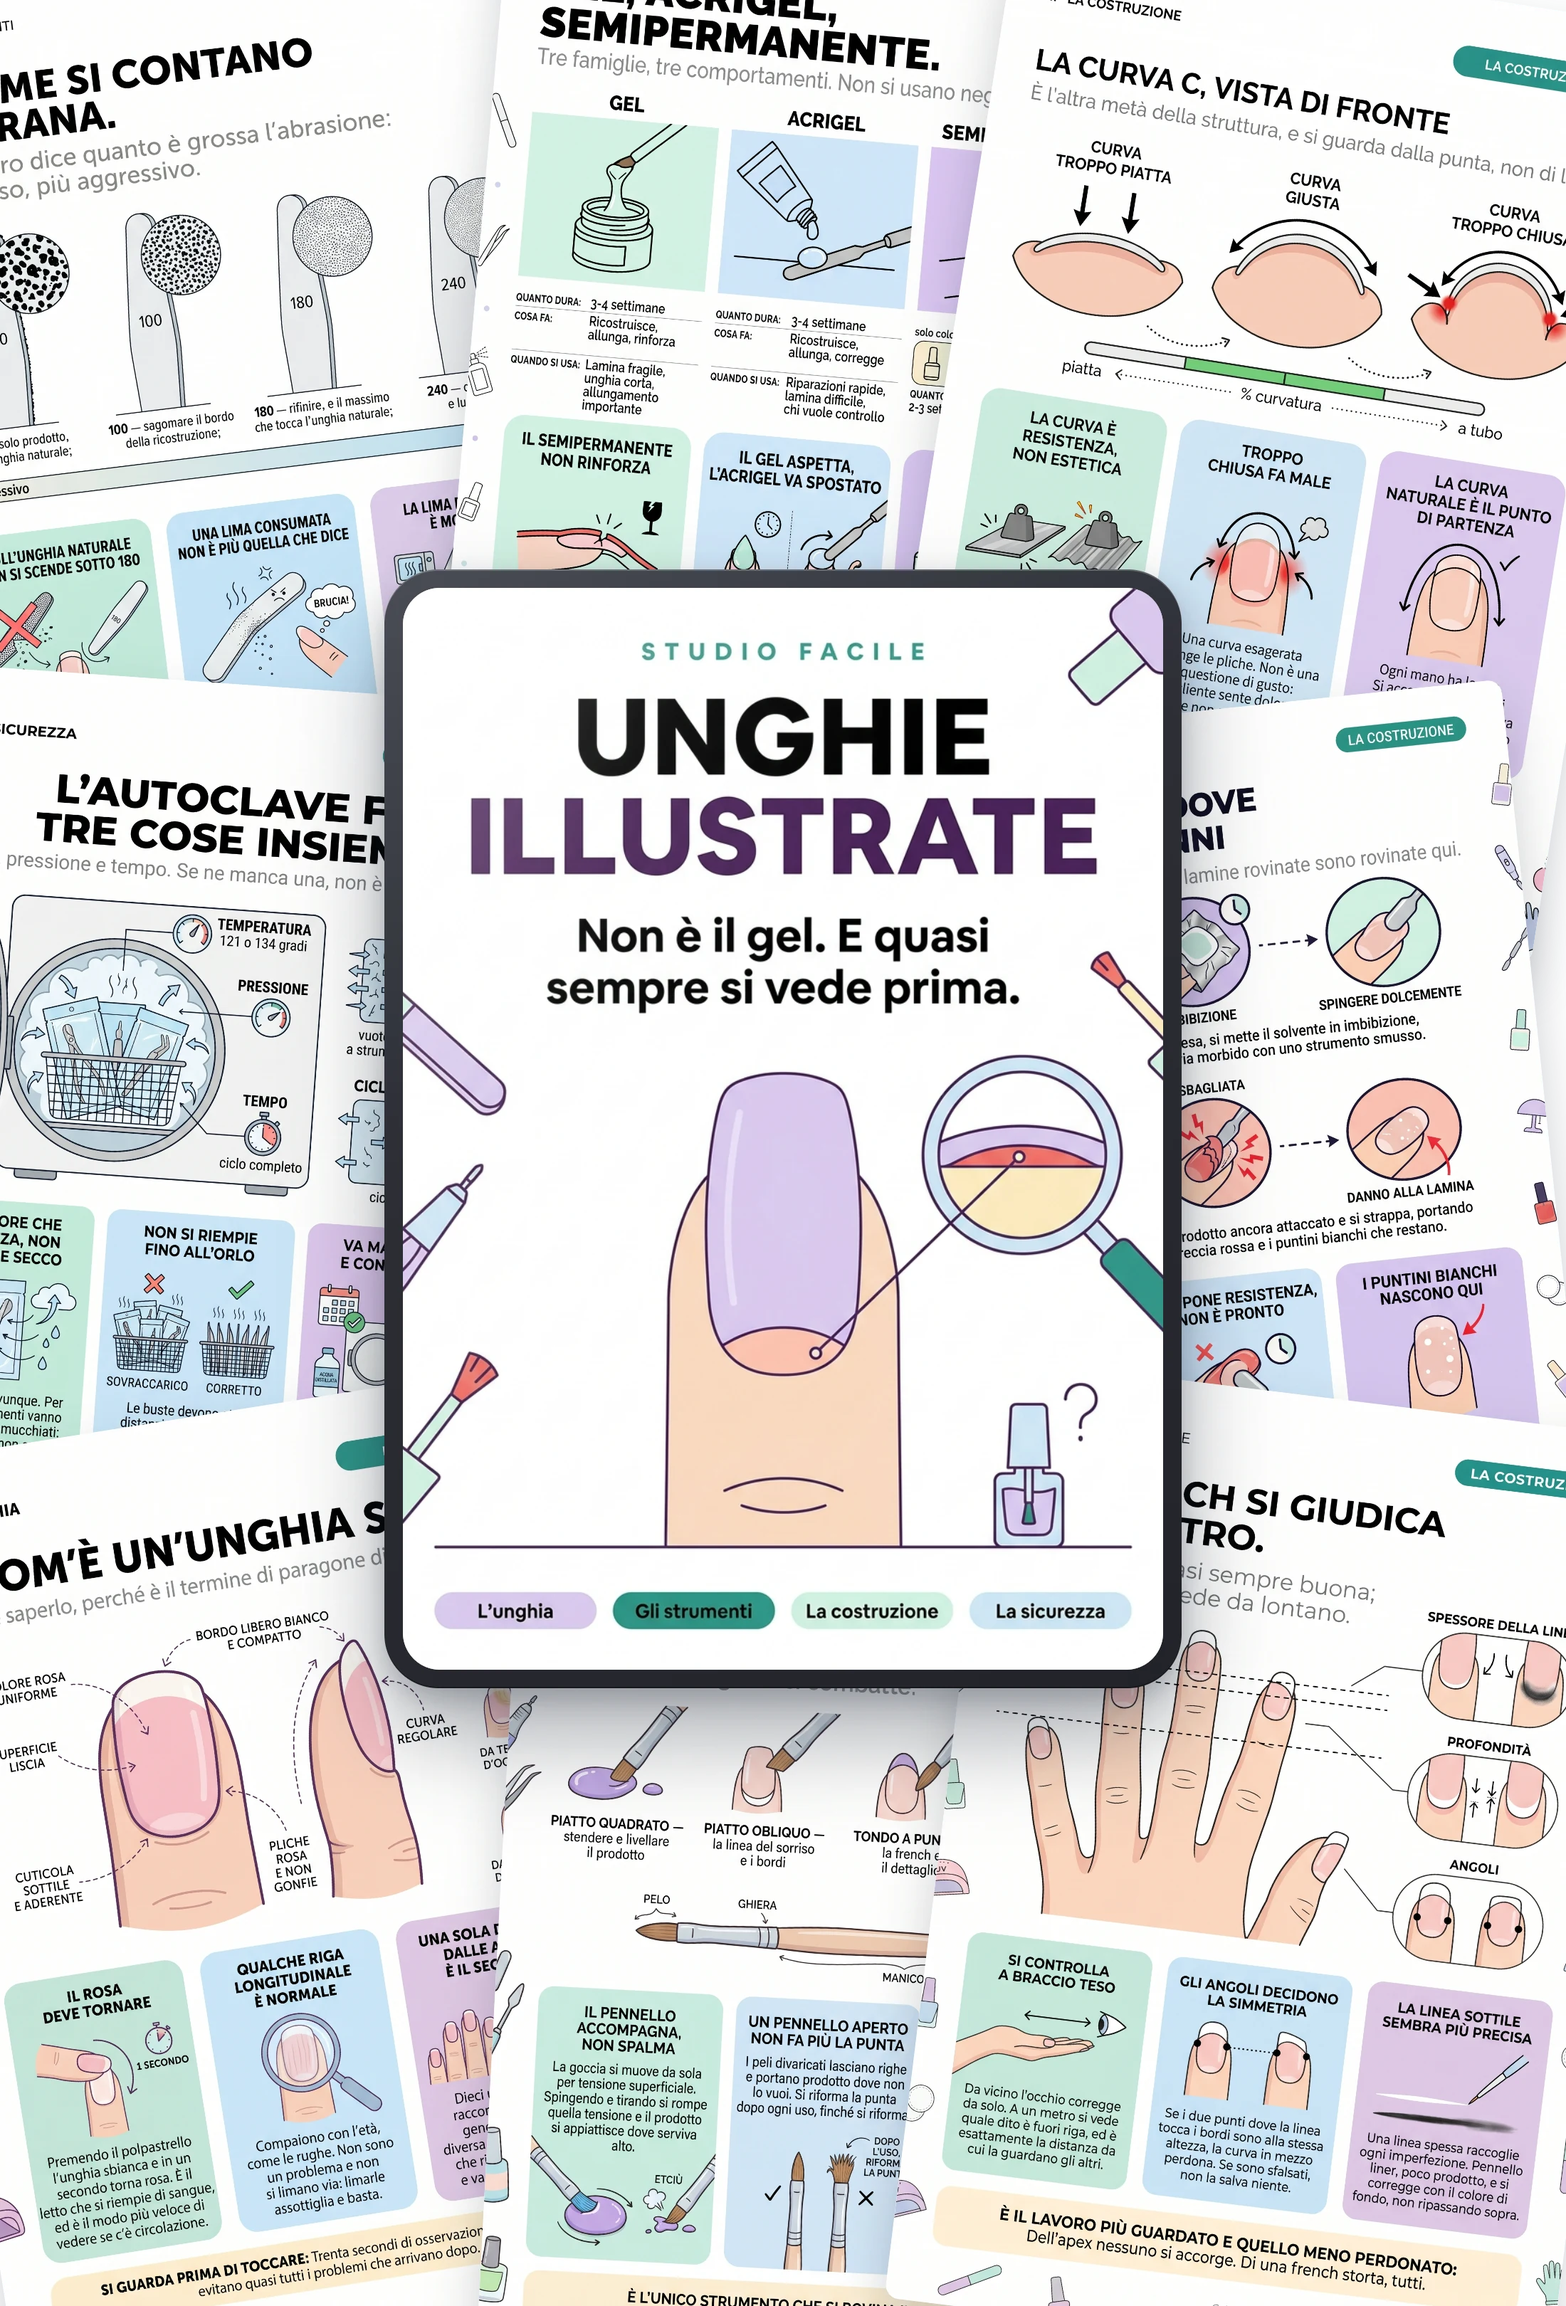
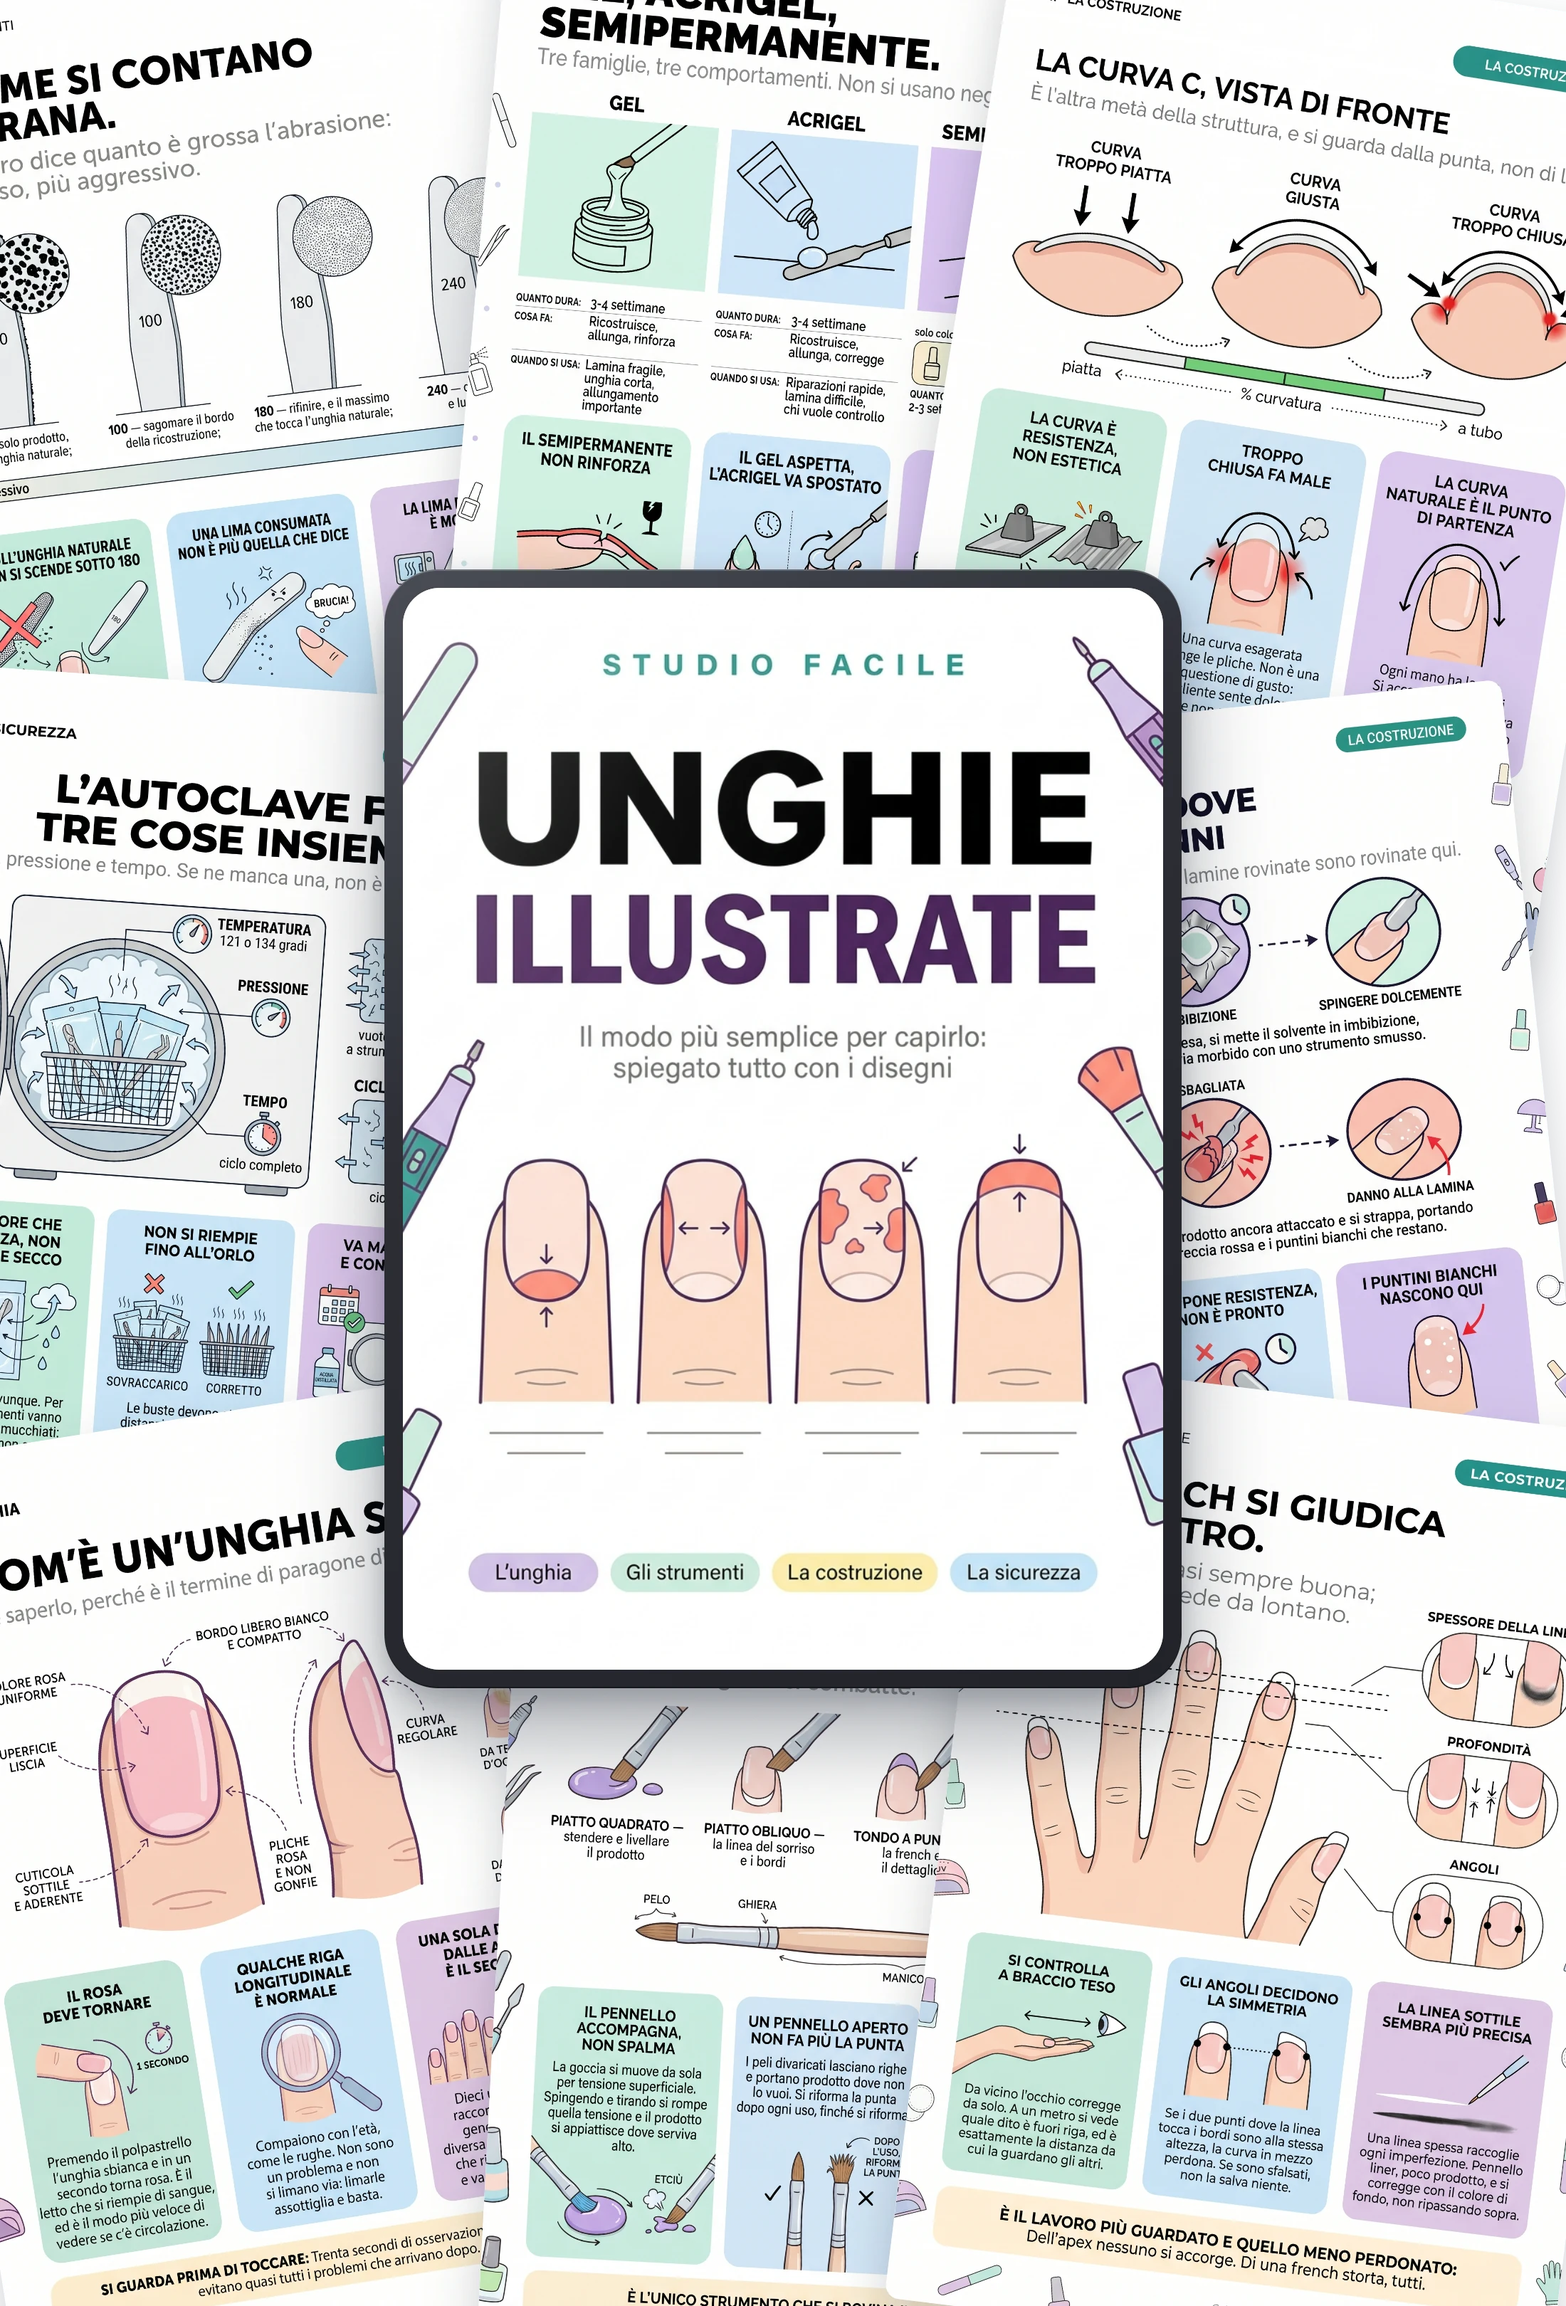
Unghie Illustrate: la copertina scelta, e la riga sotto il titolo piccola
Scelta di Luca fra sei prove: la scena delle quattro zone di distacco,
ma con la riga sotto il titolo PICCOLA e grigia invece che grossa e nera.

Non e' un gusto. Su questa scena l'angolo lo porta gia' il disegno —
quattro unghie, quattro punti, quattro frecce. Una frase grossa sopra
ripete a parole quello che il disegno sta gia' dicendo e intanto
schiaccia le unghie. Piccola, quella riga fa il suo mestiere: dice
«Il modo piu' semplice per capirlo: spiegato tutto con i disegni», cioe'
ripete l'H1 della landing quasi parola per parola, e conferma a chi ha
appena cliccato l'annuncio che e' arrivato nel posto giusto.

Scartate le altre due di questa tornata: una aveva le unghie colorate di
menta, lilla e azzurro e sembrava un campionario di smalti invece di un
diagramma; nell'altra le zone coralli erano cosi' tenui che il distacco
spariva.

Changed region(s): [[0.2473, 0.2494, 0.7418, 0.717], [0.2473, 0.2806, 0.3091, 0.3429]]

diff --git a/unghie.html b/unghie.html
@@ -2149,7 +2149,7 @@
   <section class="hero">
     <div class="hero-content">
       <div class="hero-mockup">
-        <img src="https://czocbnyoenjbpxmcqobn.supabase.co/storage/v1/object/public/algoritmia-img/studiofacile/mockups/unghie/hero.webp?v=31080738" alt="Unghie Illustrate, con Prima di Accendere la Lampada e Cosa Dico alla Cliente in regalo"
+        <img src="https://czocbnyoenjbpxmcqobn.supabase.co/storage/v1/object/public/algoritmia-img/studiofacile/mockups/unghie/hero.webp?v=3fe60e36" alt="Unghie Illustrate, con Prima di Accendere la Lampada e Cosa Dico alla Cliente in regalo"
              width="1200" height="886" loading="eager" fetchpriority="high" decoding="async">
       </div>
       <p class="hero-social">
@@ -2383,7 +2383,7 @@
     <div class="container">
       <h2 class="text-center">Ecco Cosa Riceverai Acquistando Unghie Illustrate:</h2>
       <div style="margin: 20px auto 28px;">
-        <img src="https://czocbnyoenjbpxmcqobn.supabase.co/storage/v1/object/public/algoritmia-img/studiofacile/mockups/unghie/combo.webp?v=cba57753" alt="Unghie Illustrate: mockup con pagine di esempio" width="1100" height="1620" loading="lazy" decoding="async" style="max-width: 480px; width: 100%; display: block; margin: 0 auto;">
+        <img src="https://czocbnyoenjbpxmcqobn.supabase.co/storage/v1/object/public/algoritmia-img/studiofacile/mockups/unghie/combo.webp?v=be610776" alt="Unghie Illustrate: mockup con pagine di esempio" width="1100" height="1620" loading="lazy" decoding="async" style="max-width: 480px; width: 100%; display: block; margin: 0 auto;">
       </div>
       <div class="topics-grid">
         <div class="topic-item">
@@ -2462,7 +2462,7 @@
 
       <!-- DECISION BOX -->
       <div class="decision-box" id="offerta">
-        <img src="https://czocbnyoenjbpxmcqobn.supabase.co/storage/v1/object/public/algoritmia-img/studiofacile/mockups/unghie/hero.webp?v=31080738" alt="Unghie Illustrate con i due volumi in regalo" class="db-mockup" width="1200" height="886" loading="lazy" decoding="async">
+        <img src="https://czocbnyoenjbpxmcqobn.supabase.co/storage/v1/object/public/algoritmia-img/studiofacile/mockups/unghie/hero.webp?v=3fe60e36" alt="Unghie Illustrate con i due volumi in regalo" class="db-mockup" width="1200" height="886" loading="lazy" decoding="async">
         <h3 class="db-title">Unghie Illustrate + 2 Volumi in Regalo</h3>
         <ul class="db-checklist">
           <li><span class="db-check"><svg viewBox="0 0 24 24"><polyline points="20 6 9 17 4 12"/></svg></span>Unghie Illustrate: 84 pagine illustrate<span class="db-price-val">58,20€</span></li>
